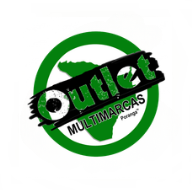
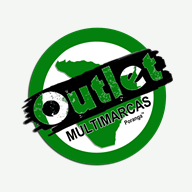
Alterei as duas imagens 192 e 512, atualize

Changed region(s): [[0.0938, 0.125, 0.9062, 0.875]]

diff --git a/src/app/layout.tsx b/src/app/layout.tsx
@@ -19,6 +19,7 @@ export default function RootLayout({
         <link rel="preconnect" href="https://fonts.googleapis.com" />
         <link rel="preconnect" href="https://fonts.gstatic.com" crossOrigin="anonymous" />
         <link href="https://fonts.googleapis.com/css2?family=Inter:wght@400;500;600;700&display=swap" rel="stylesheet" />
+        <link rel="apple-touch-icon" href="/icon-192x192.png" />
         <meta name="theme-color" content="#3a4a3a" />
         <meta name="apple-mobile-web-app-capable" content="yes" />
         <meta name="apple-mobile-web-app-status-bar-style" content="default" />
